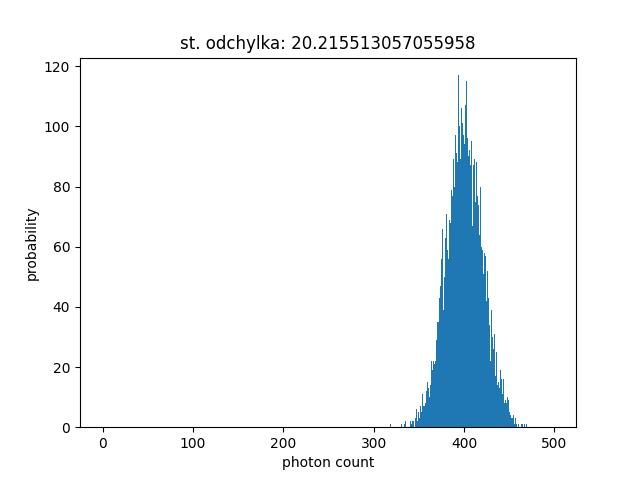
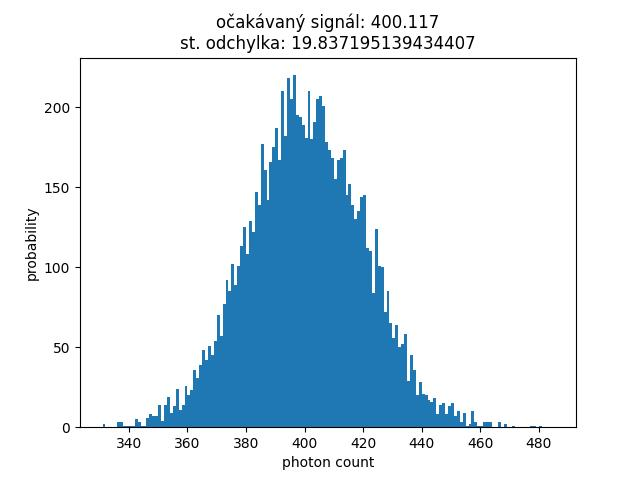
blog

diff --git a/index.html b/index.html
@@ -359,39 +359,74 @@
 				<!-- Contact -->
 							<article id="blog">
 							  <h2 class="major">Na velikosti pixelu záleží</h2>
-							  <p>Natrafil som na článok, vyvracajúci mýtus (i keď podla mojej domnieky, ktorú sa v tomto blogu pokúsom obhájiť, sa nejedná o mýtus), že so zvyšovaním rozlíšenia senzoru a teda smenšovania pixelov, na jednotlivé pixely dopadá menej svetla a tým sa znižuje kvalita obrazu. Argumenty v článku sú založené na tom, že pri zmenšovaní velkosti pixelu síce dopadá menej fotónov na jednotlivý pixel, ale celkový počet fotónov dopadajúcich na snímač sa nemení a tudíž kvalita obrazu sa nielen že nemení, ale dokoca vďaka väčšiemu rozlíšeniu, zlepšuje.<blockquote> " The argument is usually based around the idea that ‘larger pixels can gather more light’. This is true, if you consider a pixel in isolation. However, a sensor is an array of pixels, and a larger pixel occupies a larger proportion of that sensor. Apart from one factor, which will be discussed later, the size of the pixels does not affect how much light a sensor can collect. If you look at weather forecasts, the amount of rain is measured in millimetres. This is the depth of rainfall collected in the bottom of a straight-sided vessel left in the rain. The area of the vessel does not matter, since the depth will always be the same."</br></br> Celý článok je na linku: <a href="https://amateurphotographer.com/latest/opinion/are-smaller-pixels-worse-sensor-technology-myths-explained/">Are smaller pixels worse? Sensor technology myths explained</a> (mimochodom zaujímavá stránka, so zaujímavými článkami).</blockquote> Aj keď uvedené vety sú pravdivé, toto stanovisko ignoruje ďalší jav, prejavujúci sa hlavne za horších svetelných podmienok a tým je <b>fotónový šum</b>.
-</br> Uvažujme 3 dokonalé snímače so 100 % kvantovou účinnosťou, produkúce nulový šum, hotpixelym či iné artefakty. Snímače majú rovnakú plochu, na ktorú dopadá svetlo s kontantným rozložením intenzity, ale snímače majú rozdielne rozlíšenie (velkosť pixelov): prvý má pixely velikosti 1 x 1 nm, druhý 2 x 2 nm a tretí 5 x 5 nm.  
+							  <p>Natrafil som na článok, vyvracajúci mýtus (i keď podla mojej domnieky, ktorú sa v tomto blogu pokúsom obhájiť, sa nejedná o mýtus), že so zvyšovaním rozlíšenia senzoru a teda smenšovania pixelov, na jednotlivé pixely dopadá menej svetla a tým sa znižuje kvalita obrazu. Argumenty v článku sú založené na tom, že pri zmenšovaní velkosti pixelu síce dopadá menej fotónov na jednotlivý pixel, ale celkový počet fotónov dopadajúcich na snímač sa nemení a tudíž kvalita obrazu sa nielen že nemení, ale dokoca vďaka väčšiemu rozlíšeniu, zlepšuje.<blockquote> " The argument is usually based around the idea that ‘larger pixels can gather more light’. This is true, if you consider a pixel in isolation. However, a sensor is an array of pixels, and a larger pixel occupies a larger proportion of that sensor. Apart from one factor, which will be discussed later, the size of the pixels does not affect how much light a sensor can collect. If you look at weather forecasts, the amount of rain is measured in millimetres. This is the depth of rainfall collected in the bottom of a straight-sided vessel left in the rain. The area of the vessel does not matter, since the depth will always be the same."</br></br> Celý článok je na linku: <a href="https://amateurphotographer.com/latest/opinion/are-smaller-pixels-worse-sensor-technology-myths-explained/">Are smaller pixels worse? Sensor technology myths explained</a> (mimochodom zaujímavá stránka, so zaujímavými článkami).</blockquote> Aj keď uvedené vety sú pravdivé, toto stanovisko ignoruje ďalší jav, prejavujúci sa hlavne za horších svetelných podmienok a tým je <b>fotónový šum</b>.</p>
+							  <p>
+							    Fotónový šum vychádza s kvantovej povahy svetelného signálu a je to odchylka signálu, spôsobená fluktuáciou v počte dopadaných fotónov okolo očakávaného signálu (očakávaný signál je priemerná hodnota poissonového rozdenenia). To znamená že napríklad pri signále 100 fotónov nám za jednotkový expozičný čas dopadne na snímač vždycky rozdielny počet fotón, daných poissonovým rozdelením. Smerodatná odchylka signálu je v prípade poissonového rozdelenia odmocninou signálu. Vzhladom k tomu, že sa jedná o šum, vychádzajúci z prirodzenej povahy svetelného signálu, jediný spôsob ako ho obmedziť je nazbierať väčšie množstvo fotónov a tým sa zlepší pomer signálu k jeho odchýlke (šumu). V prípade, identickej optickej sústavy, expočného času a citlivosti snímača, je jedinou premennou ktorá môže zvýšiť počet dopadajúcich fotónov, je práve velkosť pixelu.
+							    </br>
+							    Uvažujme 3 dokonalé snímače so 100 % kvantovou účinnosťou, produkúce nulový šum, hotpixelym či iné artefakty. Snímače majú rovnakú plochu, na ktorú dopadá svetlo s kontantným rozložením intenzity, ale snímače majú rozdielne rozlíšenie (velkosť pixelov): prvý má pixely velikosti 1 x 1 nm, druhý 2 x 2 nm a tretí 5 x 5 nm. V prípade fotónového toku 100 fotónov na 1 nm, bude charakteristika signálu a šumu pre tieto pixely tak ako je to na uvedených grafoch. Z grafov je zrejmé zlepšovanie pomeru signál/šum (tento pomer odpovedá smerodatnej odchýlke) so zväčšovaním pixelu. Kvalita fotografického výstupu nie je daná samotným osvetlením pixelu, ale práve pomerom signál/šum. Nie je to ale obecne platné pravidlo, pretože od určiteho pomeru je zlepšovanie výstupu zanedbatelné - nastavenie prahu pre zlepšovanie je už subjektívna záležitosť každého fotografa.
 							  </p>
+							  <span class="image gal"> <img alt="100" src="images/poisson/100.jpg"></span>
+							  <span class="image gal"> <img alt="400" src="images/poisson/400.jpg"></span>
+							  <span class="image gal"> <img alt="2500" src="images/poisson/2500.jpg"></span>
+
+							  <p>
+							    Poďme si ďalej skúsiť vygenerovať príklad (na konci blogu prikladám skript), ktorý bude počítať rovnakými pixelmi ako je to v prípade ukážky poissonového rozdelenia (štvorcové pixely so stranou 1 nm, 2 nm a 5 nm). Rozlíšenie pre snímače pri zachovaní celkovej plochy snímača je teda: 9 Mpx, 2.25 Mpx a 0.36 Mpx. S použitím skvelej knižnice numpy je možné preložiť pole v tvare rozlíšenia snímača (3000 x 3000 px) hocjakou matematickou funkciou (pre účely príkladu ide iba o to, aby sme dosiahli rozdiely v jase na snímači) a tým si vygenerovať obrázok, ktorý bude použitý pre porovnanie. V prípade, žeby svetlo bolo determistického charakteru a teda by nevznikal fotónový šum, by obrázok pre všetky tri snímače vyzeral takto:
+							  </p>
+							  
+							  <span class="image gal"> <img alt="100" src="images/poisson/noiseless.jpg"></span>
+							  <span class="image gal"> <img alt="400" src="images/poisson/noiseless_resampled_2.jpg"></span>
+							  <span class="image gal"> <img alt="2500" src="images/poisson/noiseless_resampled_5.jpg"></span>
+
+							  <p>
+Nevidíte medzi obrázkami rozdiely? Výborne! Celkový počet fotónov je nemenný a po vyrovnaní jasov (viz color bar vpravo) je naozaj jediný rozdiel v kvalite, ktorý na takto malom obrázku nie je vidieť, v rozlíšení a teda snímač s menšími pixelim by znamenal vyššiu obrazovú kvalitu, tak ako je to uvedené v pôvodnom článku. Realita je ale trošku iná:
+							  </p>
+							  <span class="image gal"> <img alt="100" src="images/poisson/full_resolution.jpg"></span>
+							  <span class="image gal"> <img alt="400" src="images/poisson/resampled_2.jpg"></span>
+							  <span class="image gal"> <img alt="2500" src="images/poisson/resampled_5.jpg"></span>
+
+							  <p>
+Vzhladom k tomu, že svetelný signál (počet fotónov dopadajúcich na plochu) nikdy nie je konštantný, ale riadi sa poissonovým rozdelením, pri málo svetelných podmienkach je výsledný výstup silno ovplyvnený i počtom fotónov dopadajúcich na jeden pixel, nie len celkovým počtom fotónov dopadajúcich na plochu snímača. A teda väčšie pixely, pri nemenných ostatných parametroch systému, v prípade slabej expozície, vždycky budú produkovať z hladiska osvetlenia a šumu lepší výstup. </br> Rozdielna situácia bude v prípade silného svetelného signálu, kedy bude i pre malý pixel dosiahnutý dostatočný pomer signál/šum a zväčšovanie pixelu už neprinenie žiadnu výhodu, akurát sa vplyvom horšieho rozlíšenia zhorší celková kvalita výstupu. Napríklad pri 1000 násobne silnejšom signále by porovnanie bolo takéto:   
+							  </p>
+
+<span class="image gal"> <img alt="100" src="images/poisson/alt/full_resolution.jpg"></span>
+<span class="image gal"> <img alt="400" src="images/poisson/alt/resampled_2.jpg"></span>
+<span class="image gal"> <img alt="2500" src="images/poisson/alt/resampled_5.jpg"></span>
+
+							  <p>
+							    Záverom, pri hodnotení vplyvu velkosti pixelu a rozlíšenia snímačov na kvalitu výstupu, nestačí brať v úvahu technologický pokrok, kedy sa kvantová účinnosť moderných snímačov blíži dokonalosti, ale stále musíme uvažovať konkrétne podmienky. A v horších svetelných podmienkach majú kamery s relatívne malým rozlíšením stále svoj význam. </br> Nutno uviesť, že i tento blog je pomerne zjednodušujúci a zanedbáva ďalšie efekty, ktoré je ďalej nutné hodnotit pri posudzovaní rozlíšenia na kvalitu obrazu. A to je napríklad ďalšie zložky šumu (temný prúd, ktorý sa zväčšuje pri dĺžke expozície takže eliminácia fotónoveho šumu predlžovaním expozičného času môže byť problematická), vykreslenie optickej sústavy, ohnisko, iné než svetelné podmienky (napríklad nestabilita atmosféty - seeing),... Možno sa im povenujem v niektorom z ďalších blogov. </p>
+	<p>						    Dole je skript, použitý pre generovanie obrázkov a testovanie úvah. Jadrom skriptu je rutina <a href="https://numpy.org/doc/stable/reference/random/generated/numpy.random.poisson.html">numpy.random.poisson</a>. </p> 
+							  </P>
+
 							  <pre> <code class="python">
 import matplotlib.pyplot as plt
 import numpy as np
 
 
 #------------------- poisson example-----------------
-pixel_small = 100             # mean photon count (expected signal)
-pixel_big = pixel_small * 4
+pixel_small = 10000             # mean photon count (expected signal)
 
 def poisson_1d(pixel):
-    sample = np.random.poisson(pixel, 5000)
+    sample = np.random.poisson(pixel, 10000)
     dev = np.std(sample)
-    print("st. odchylka of ",  str(dev))
+    print("st. odchylka of ", pixel/pixel_small, "nm pixel and ", pixel_small, "photons/1 nm flux: ",  str(dev))
     
-    bin = np.arange(0, 500, 1)
+    bin = np.arange(np.min(sample), np.max(sample), 1)    
     plt.hist(sample, bins=bin) 
     plt.xlabel("photon count")
     plt.ylabel("probability") 
-    plt.title("st. odchylka: " + str(dev))
+    plt.title("očakávaný signál: " + str(np.mean(sample)) + "\nst. odchylka: " + str(dev))
     plt.show()
     plt.savefig(str(pixel) + ".jpg")
     plt.close()
 
 poisson_1d(pixel_small)
-poisson_1d(pixel_big)    
+poisson_1d(pixel_small * 4)
+poisson_1d(pixel_small * 25)    
 
 #-----------------photon noise--------------------------
 def generate_img(resolution):
     x, y = np.meshgrid(np.linspace(0, 1, resolution), np.linspace(0, 1, resolution))
-    return ((0.5 + x + x**10 + y/4 + y**8) * np.exp(-x**1.8 - y**1.5) * 250).astype(int)
+    return ((0.5 + x + x**10 + y/4 + y**8) * np.exp(-x**1.8 - y**1.5) * 200).astype(int)
     
 def resample(img, binning):
     big = img.reshape(img.shape[0]//binning, binning, img.shape[1]//binning, binning)
@@ -410,14 +445,14 @@ def figure(fig, name):
 # ------------------ Noiseless----------------   
 noiseless = generate_img(3000)
 figure(noiseless, "noiseless")
-print("Full resolution illumination: ", noiseless.sum())
+print("\nFull resolution illumination: ", noiseless.sum())
 
 noiseless_resampled_2 = resample(noiseless, 2)
-#figure(noiseless_resampled_2, "noiseless_resampled_2")
+figure(noiseless_resampled_2, "noiseless_resampled_2")
 print("Resampled 2 illumination: ", noiseless_resampled_2.sum())
 
 noiseless_resampled_5 = resample(noiseless, 5)
-#figure(noiseless_resampled_5, "noiseless_resampled_5")
+figure(noiseless_resampled_5, "noiseless_resampled_5")
 print("Resampled 5 illumination: ", noiseless_resampled_5.sum())    
 
 #------------------ with noise---------------------------------
@@ -428,8 +463,7 @@ noise_resampled_2 = poisson(noiseless_resampled_2)
 figure(noise_resampled_2, "resampled_2")
 
 noise_resampled_5 = poisson(noiseless_resampled_5)
-figure(noise_resampled_5, "resampled_5")
-							    </code></pre>
+figure(noise_resampled_5, "resampled_5")							    </code></pre>
 
 							</article>
 

diff --git a/assets/css/.#main.css b/assets/css/.#main.css
@@ -1,0 +1,1 @@
+ondro@rachotina.568122:1715622607

diff --git a/images/poisson/alt/noise.py b/images/poisson/alt/noise.py
@@ -26,7 +26,7 @@ poisson_1d(pixel_small * 25)
 #-----------------photon noise--------------------------
 def generate_img(resolution):
     x, y = np.meshgrid(np.linspace(0, 1, resolution), np.linspace(0, 1, resolution))
-    return ((0.5 + x + x**10 + y/4 + y**8) * np.exp(-x**1.8 - y**1.5) * 200).astype(int)
+    return ((0.5 + x + x**10 + y/4 + y**8) * np.exp(-x**1.8 - y**1.5) * 200000).astype(int)
     
 def resample(img, binning):
     big = img.reshape(img.shape[0]//binning, binning, img.shape[1]//binning, binning)
